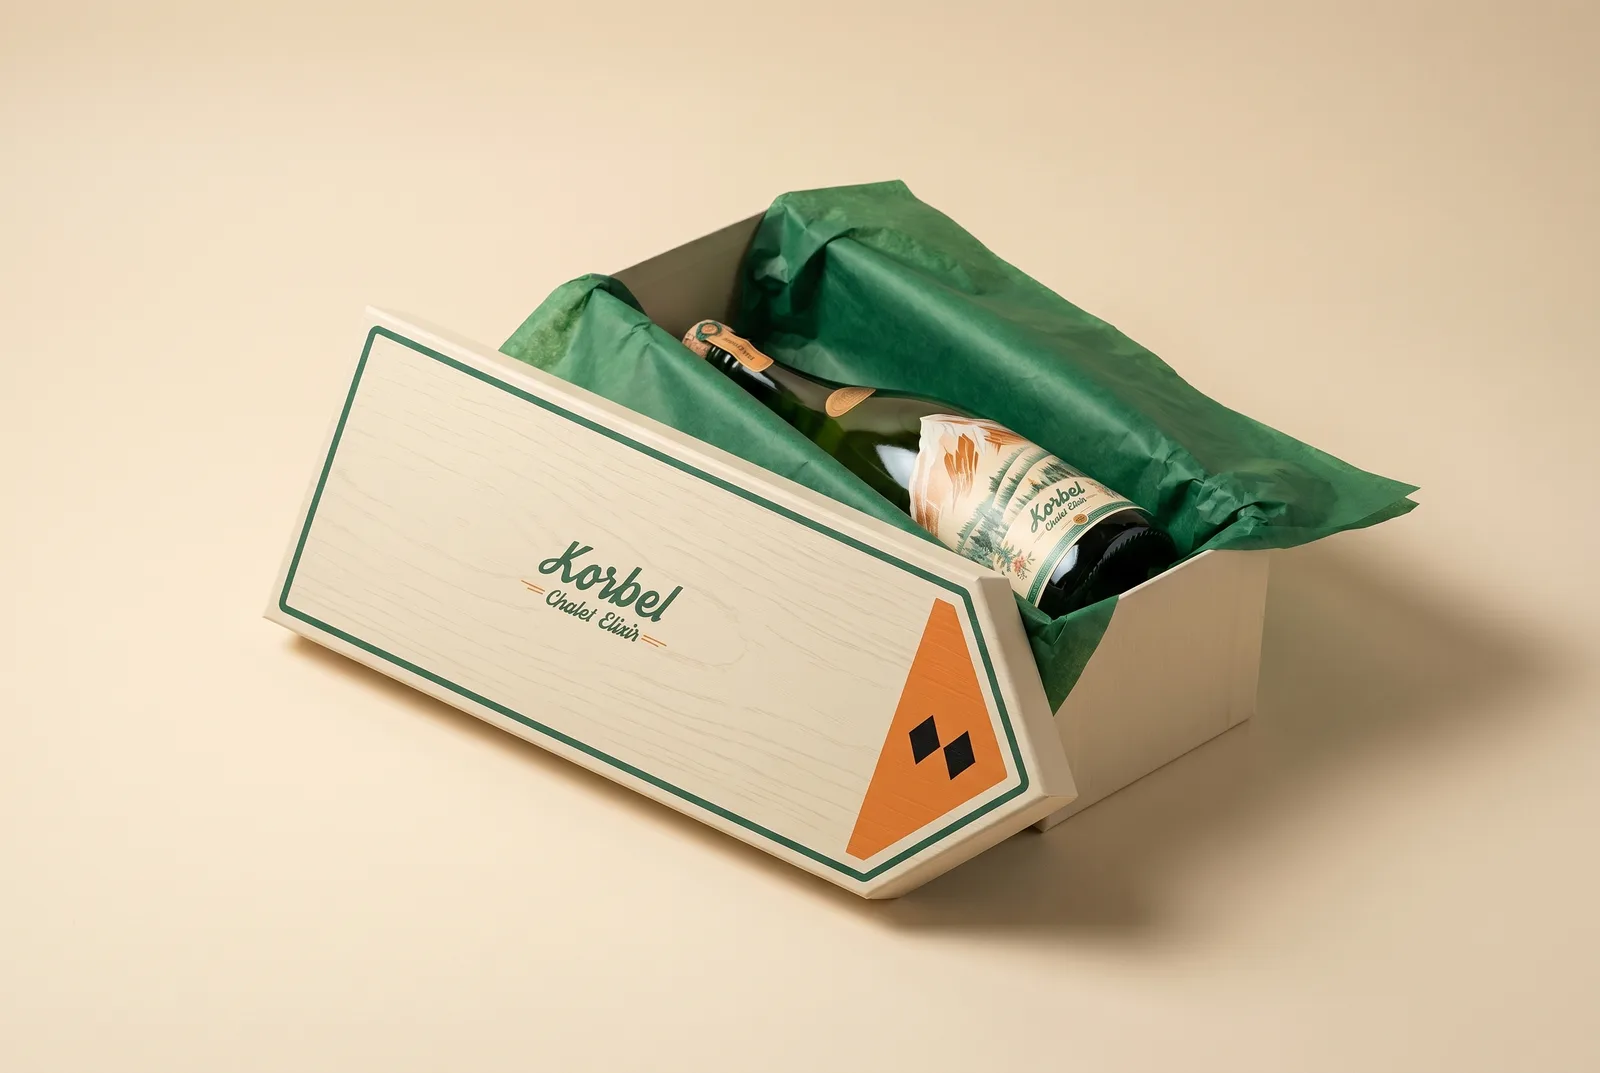
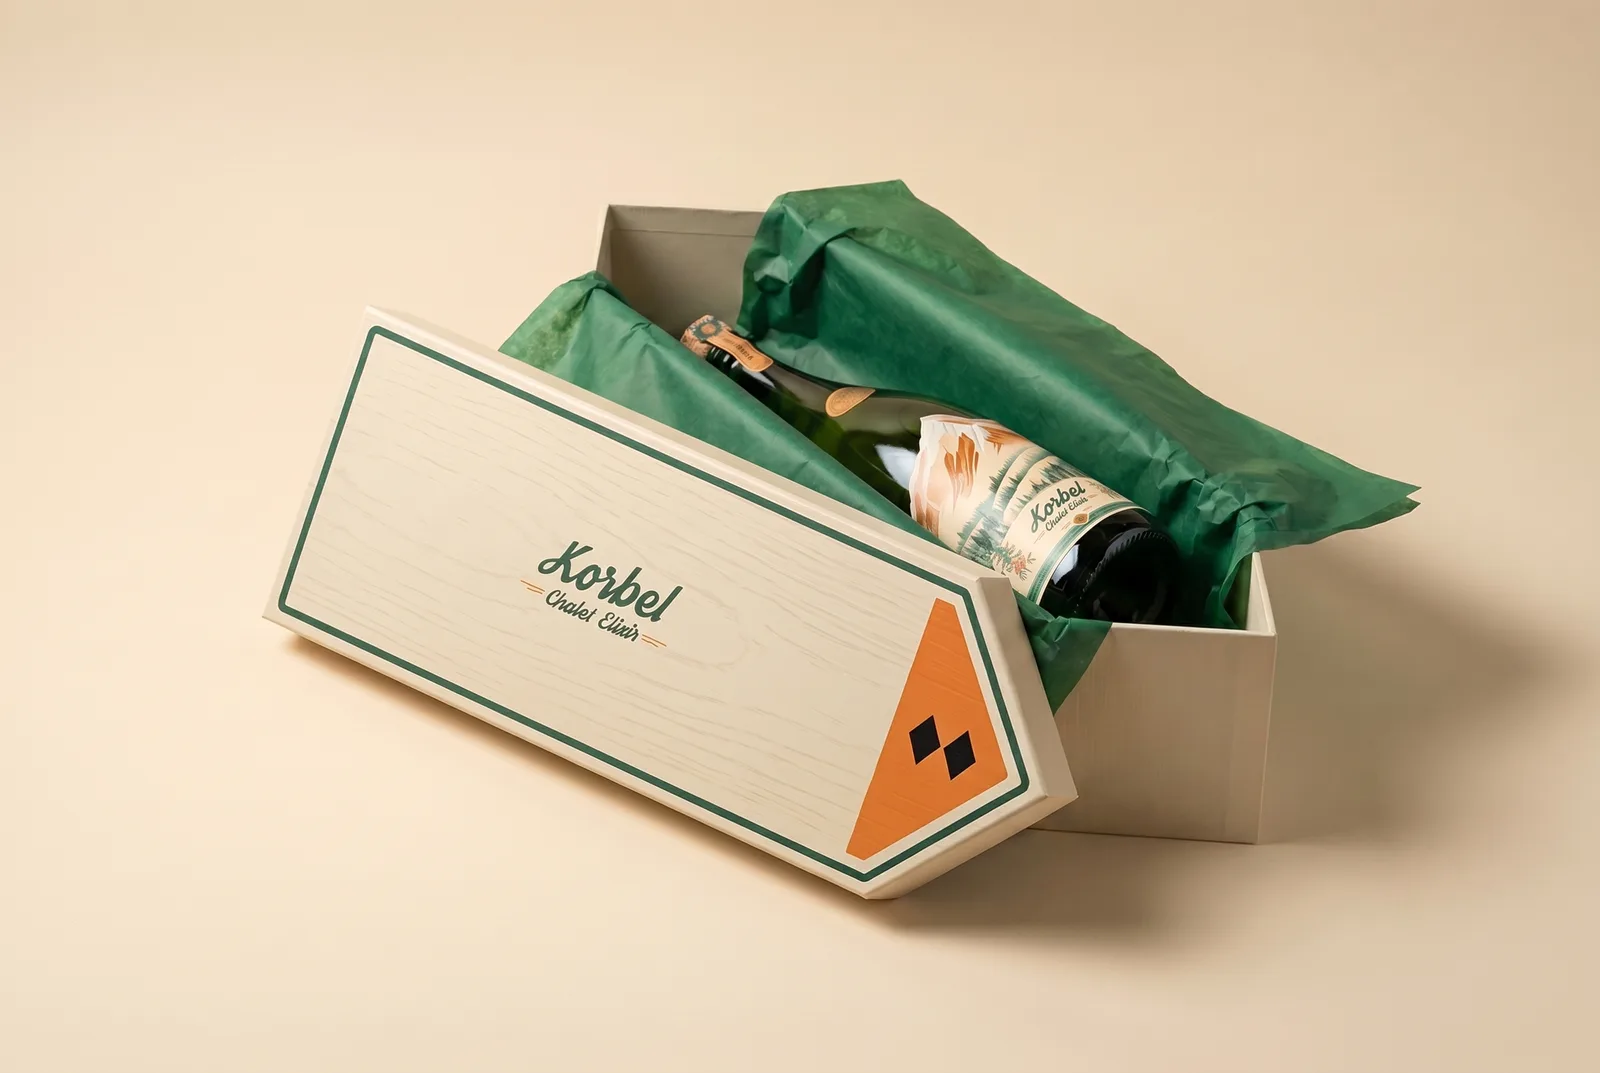
korbel: corrected packaging — arrow box matches lid, bottle base on flat end; both enameled tin designs

diff --git a/case-studies/korbel/index.html b/case-studies/korbel/index.html
@@ -286,8 +286,12 @@
           <figcaption class="fig-label">Premium · Arrow gift box</figcaption>
         </figure>
         <figure class="pack-cell">
-          <div class="frame"><img src="assets/metal-tin.webp" alt="The special-edition tin: a glossy enameled arrow-shaped tin with a vintage skier illustration panel and silver rolled edges."></div>
-          <figcaption class="fig-label">Special edition · Enameled tin</figcaption>
+          <div class="frame"><img src="assets/metal-tin.webp" alt="A special-edition enameled arrow-shaped tin with a vintage après-ski skier panel and silver rolled edges, shown standing and open with the bottle inside."></div>
+          <figcaption class="fig-label">Special edition · Enameled tin I</figcaption>
+        </figure>
+        <figure class="pack-cell">
+          <div class="frame"><img src="assets/metal-tin-2.webp" alt="A second special-edition enameled arrow-shaped tin with a downhill-skiers panel, shown standing and open with the bottle inside."></div>
+          <figcaption class="fig-label">Special edition · Enameled tin II</figcaption>
         </figure>
       </div>
     </section>